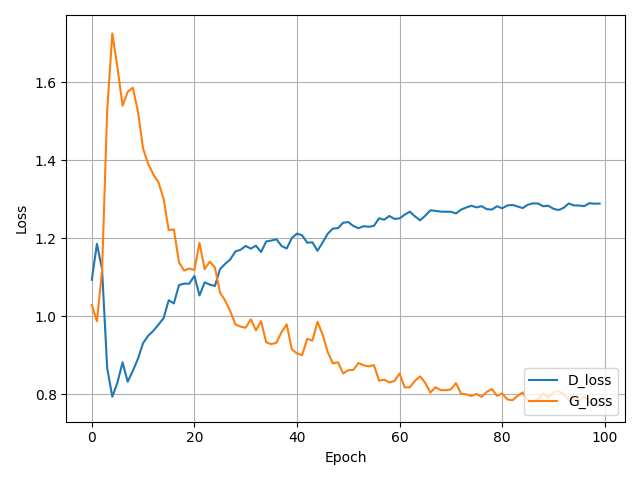
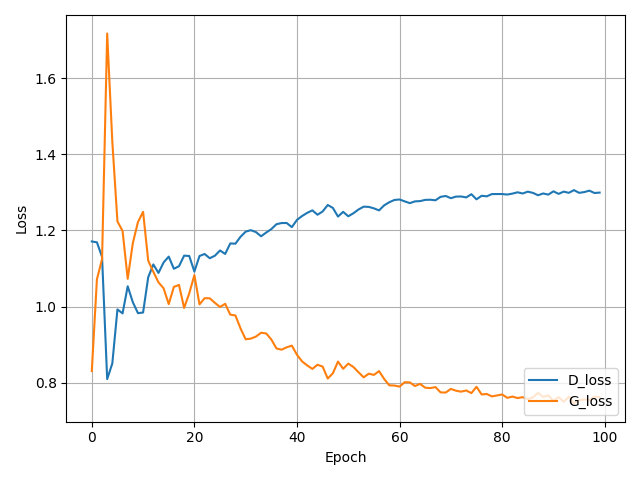
without dropout run

Changed region(s): [[0.0625, 0.0625, 0.9688, 0.8438], [0.0625, 0.7812, 0.0938, 0.8438], [0.0625, 0.625, 0.0938, 0.6875]]

diff --git a/DL_CV/CW2/CW2_Handout_Template_code/GAN/gan_tensorflow.py b/DL_CV/CW2/CW2_Handout_Template_code/GAN/gan_tensorflow.py
@@ -166,10 +166,10 @@ sess = tf.InteractiveSession(config=config)
 tf.global_variables_initializer().run()
 
 # results save folder
-if not os.path.isdir('MNIST_GAN_results'):
-    os.mkdir('MNIST_GAN_results')
-if not os.path.isdir('MNIST_GAN_results/results'):
-    os.mkdir('MNIST_GAN_results/results')
+if not os.path.isdir('MNIST_GAN_results_without_dropout'):
+    os.mkdir('MNIST_GAN_results_without_dropout')
+if not os.path.isdir('MNIST_GAN_results_without_dropout/results'):
+    os.mkdir('MNIST_GAN_results_without_dropout/results')
 train_hist = {}
 train_hist['D_losses'] = []
 train_hist['G_losses'] = []
@@ -187,12 +187,12 @@ for epoch in range(train_epoch):
         x_ = train_set[iter*batch_size:(iter+1)*batch_size]
         z_ = np.random.normal(0, 1, (batch_size, 100))
 
-        loss_d_, _ = sess.run([D_loss, D_optim], {x: x_, z: z_, drop_out: 0.3})
+        loss_d_, _ = sess.run([D_loss, D_optim], {x: x_, z: z_, drop_out: 0.0})
         D_losses.append(loss_d_)
 
         # update generator
         z_ = np.random.normal(0, 1, (batch_size, 100))
-        loss_g_, _ = sess.run([G_loss, G_optim], {z: z_, drop_out: 0.3})
+        loss_g_, _ = sess.run([G_loss, G_optim], {z: z_, drop_out: 0.0})
         G_losses.append(loss_g_)
 
     epoch_end_time = time.time()
@@ -200,7 +200,7 @@ for epoch in range(train_epoch):
     print('[%d/%d] - ptime: %.2f loss_d: %.3f, loss_g: %.3f' % ((epoch + 1), train_epoch, per_epoch_ptime, np.mean(D_losses), np.mean(G_losses)))
 
     ### Code: TODO Code complete show_result function)
-    p = 'MNIST_GAN_results/results/MNIST_GAN_' + str(epoch + 1) + '.png'
+    p = 'MNIST_GAN_results_without_dropout/results/MNIST_GAN_' + str(epoch + 1) + '.png'
     show_result((epoch + 1), save=True, path=p)
 
 
@@ -212,7 +212,7 @@ total_ptime = end_time - start_time
 train_hist['total_ptime'].append(total_ptime)
 print('Avg per epoch ptime: %.2f, total %d epochs ptime: %.2f' % (np.mean(train_hist['per_epoch_ptimes']), train_epoch, total_ptime))
 print("Training finish!... save training results")
-with open('MNIST_GAN_results/train_hist.pkl', 'wb') as f:
+with open('MNIST_GAN_results_without_dropout/train_hist.pkl', 'wb') as f:
     pickle.dump(train_hist, f)
 show_train_hist(train_hist, save=True, path='MNIST_GAN_results/MNIST_GAN_train_hist.png')
 images = []
